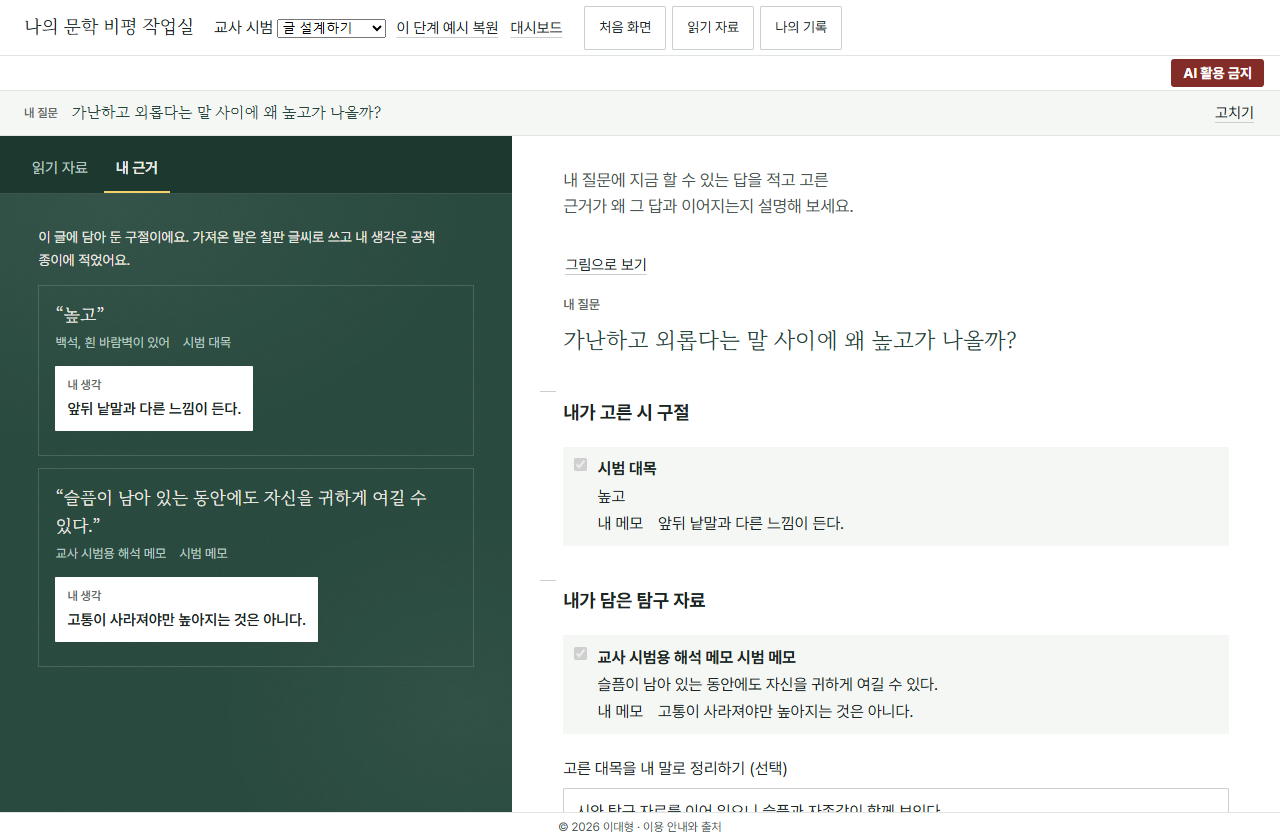
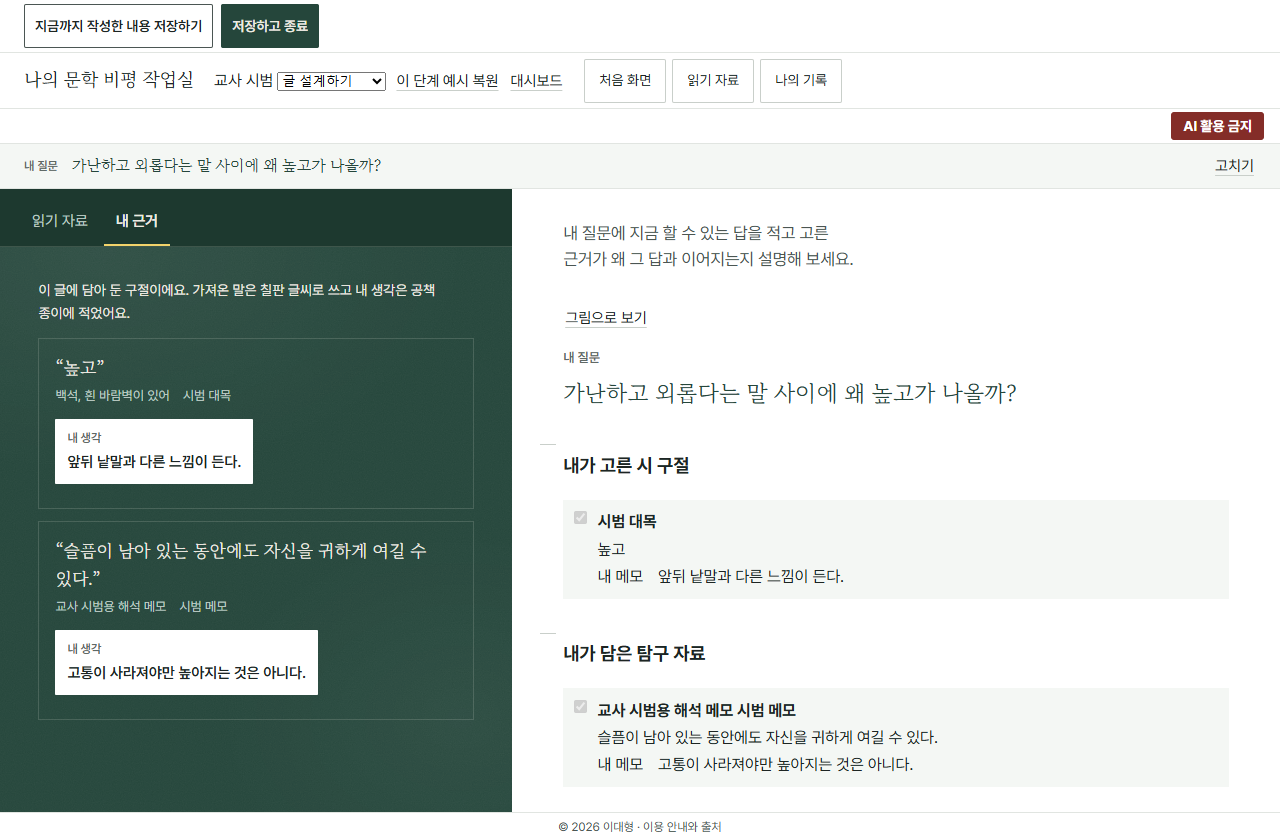
학생 저장과 종료를 교사 시범 및 안내 화면에 반영

diff --git a/index.html b/index.html
@@ -1,9 +1,9 @@
 <!doctype html>
 <html lang="ko"><head><meta charset="utf-8"><meta name="viewport" content="width=device-width,initial-scale=1"><meta name="description" content="백석의 시를 읽고 친구에게 추천하는 비평문 쓰기. 학교별 템플릿과 교사용 설치 안내."><title>나의 문학 비평 작업실 · 교사용 배포판</title><link href="./style.css" rel="stylesheet"></head>
 <body><header><a href="#top">나의 문학 비평 작업실</a><nav aria-label="페이지 메뉴"><a href="#why">제작 배경</a><a href="#screens">화면 체험</a><a href="#lesson">수업 흐름</a><a href="#records">작성 기록</a><a href="#install">학교 설치</a><a href="#faq">자주 묻는 질문</a></nav></header>
-<main id="top"><section class="hero"><div><p class="tag">교사용 배포판</p><h1>나의 문학<br>비평 작업실</h1><p class="lead">시가 낯선 친구에게 백석의 「흰 바람벽이 있어」를 권한다면, 어떤 대목을 함께 읽고 싶나요?</p><a class="primary" href="#install">우리 학교에 설치하기 ↓</a> <a class="text" href="#screens">학생 화면 둘러보기 ↓</a></div><figure><a href="./model-plan.png" aria-label="교사 시범 편집기 화면 크게 보기"><img src="./model-plan.png" width="1240" height="820" alt="글 설계하기 화면에서 ‘높고’에 관한 내 답과 앞서 고른 근거를 한눈에 살펴보는 교사 시범"></a><figcaption>교사 시범 화면 · 글 설계하기</figcaption></figure></section>
-<section id="why"><p class="tag">제작 배경</p><h2>‘높고’에서 멈춘 순간을<br>비평문의 첫 문장까지</h2><div class="columns"><p>“가난하고 외로운데 왜 높다고 했을까?” 시를 읽다 이런 물음이 생겨도, 막상 비평문을 쓰려면 무엇부터 말해야 할지 막막합니다. 작업실은 학생이 처음 품은 질문을 글 끝까지 가져갈 수 있도록 만들었습니다.</p><p>시구와 자료를 담을 때는 그 옆에 내 해석을 적고, 초고를 쓸 때는 그 근거를 곁에 펼쳐 둡니다. 교사는 완성된 글과 함께 학생이 무엇을 골랐고 어디에서 생각을 바꿨는지도 살펴볼 수 있습니다.</p></div><h3>수업에서 출발한 세 가지 설계</h3><ol class="flow"><li><h3>읽은 자리로 돌아가기</h3><p>쓰다가 생각이 막히면 시와 자료를 다시 펼칩니다. 앞서 골라 둔 대목이 자기 판단과 어울리는지 확인할 수 있습니다.</p></li><li><h3>판단 기준 먼저 나누기</h3><p>글을 쓰기 전에 같은 예시를 채점해 봅니다. 서로 다르게 읽은 문장을 짚으며 ‘근거가 분명하다’는 말의 뜻을 맞춰 갑니다.</p></li><li><h3>고쳐 쓴 이유 남기기</h3><p>AI에게 묻기 전에 어떤 독자의 반응이 필요한지 정합니다. 받은 조언 중 무엇을 받아들일지는 글쓴이가 결정합니다.</p></li></ol></section><section id="screens"><h2>학생과 교사의 화면을 둘러보세요</h2><p>보고 싶은 활동을 고르세요. 학교용 템플릿에 수업용 예시를 넣어 실행한 화면입니다. 이미지를 누르면 크게 볼 수 있습니다.</p><div class="picker" aria-label="미리 볼 활동"><a href="#shot-prep">평가기준 읽기</a><a href="#shot-case">사례 판단</a><a href="#shot-rule">AI 활용 규칙</a><a href="#shot-ask">질문 만들기</a><a href="#shot-find">근거 찾기</a><a href="#shot-plan">글 설계하기</a><a href="#shot-draft">초고 쓰기</a><a href="#shot-feedback">AI에게 묻기</a><a href="#shot-revise">고쳐쓰기</a><a href="#shot-teacher">교사 대시보드</a></div><article class="shot" id="shot-prep"><div><p class="tag">평가기준 읽기</p><h3>어떤 글을 쓰면 친구에게 시가 잘 전해질까요?</h3><p>학생은 세 평가요소를 자기 말로 풀어 쓴 뒤 선생님의 기준과 비교합니다. 예시 글의 수준을 판단하고, 친구와 판단이 갈린 대목을 이야기합니다.</p></div><figure><a href="screens/prep.png"><img loading="lazy" src="screens/prep.png" width="1280" height="840" alt="평가기준 읽기 실제 화면 크게 보기"></a></figure></article><article class="shot" id="shot-case"><div><p class="tag">사례 판단</p><h3>두 글의 점수를 정하려면 무엇을 더 알고 싶나요?</h3><p>가상 학생 두 명의 글과 작성 기록을 읽고 어느 쪽에 더 높은 점수를 줄지 의논합니다. 같은 기록을 보고도 판단이 달라질 수 있는 까닭을 묻습니다.</p></div><figure><a href="screens/case.png"><img loading="lazy" src="screens/case.png" width="1280" height="840" alt="사례 판단 실제 화면 크게 보기"></a></figure></article><article class="shot" id="shot-rule"><div><p class="tag">AI 활용 규칙</p><h3>내가 직접 할 일은 어디까지일까요?</h3><p>AI를 쓸 수 있는 시점과 부정행위에 관한 교사의 규칙을 읽고, 그 범위에서 자기 약속을 씁니다. 시구를 고르는 일, 질문을 만드는 일, 초고에 대해 조언을 구하는 일을 나누어 생각해 봅니다.</p></div><figure><a href="screens/rule.png"><img loading="lazy" src="screens/rule.png" width="1280" height="840" alt="AI 활용 규칙 실제 화면 크게 보기"></a></figure></article><article class="shot" id="shot-ask"><div><p class="tag">질문 만들기</p><h3>왜 ‘가난하고 외롭고’ 다음에 ‘높고’가 올까요?</h3><p>마음에 걸린 시어를 고르고 그 말이 궁금한 까닭을 적습니다. 시범 글을 띄워 ‘높고’를 가리고 읽었을 때와 다시 넣어 읽었을 때의 느낌을 나눠 보세요.</p></div><figure><a href="screens/ask.png"><img loading="lazy" src="screens/ask.png" width="1280" height="840" alt="질문 만들기 실제 화면 크게 보기"></a></figure></article><article class="shot" id="shot-find"><div><p class="tag">근거 찾기</p><h3>내 질문을 들고 어떤 자료를 읽을까요?</h3><p>시에서 찾은 대목을 다른 작품이나 연구 자료와 함께 읽습니다. 글에 쓸 부분을 담고, 이 대목이 내 질문과 어떻게 이어지는지 기록합니다.</p></div><figure><a href="screens/find.png"><img loading="lazy" src="screens/find.png" width="1280" height="840" alt="근거 찾기 실제 화면 크게 보기"></a></figure></article><article class="shot" id="shot-plan"><div><p class="tag">글 설계하기</p><h3>어떤 대목이 내 해석을 뒷받침하나요?</h3><p>시와 자료에서 담아 둔 근거를 펼쳐 보고 내 답과 이어지는 것을 고릅니다. 다른 자료를 읽고 처음 생각이 달라졌다면, 달라진 까닭도 글의 한 갈래가 됩니다.</p></div><figure><a href="screens/plan.png"><img loading="lazy" src="screens/plan.png" width="1280" height="840" alt="글 설계하기 실제 화면 크게 보기"></a></figure></article><article class="shot" id="shot-draft"><div><p class="tag">초고 쓰기</p><h3>시가 낯선 친구에게 첫 문장을 어떻게 건넬까요?</h3><p>한쪽에 글 설계를 펼쳐 두고 다른 쪽에서 초고를 씁니다. 친구에게 들려주고 싶은 대목, 그 대목을 읽은 내 생각, 이 시를 권하고 싶은 이유를 연결합니다.</p></div><figure><a href="screens/draft.png"><img loading="lazy" src="screens/draft.png" width="1280" height="840" alt="초고 쓰기 실제 화면 크게 보기"></a></figure></article><article class="shot" id="shot-feedback"><div><p class="tag">AI에게 묻기</p><h3>친구가 내 글의 어디에서 멈출까요?</h3><p>초고를 스스로 평가한 뒤 AI에게 받고 싶은 피드백을 정합니다. 요청과 초고를 복사해 사용할 수 있어, 글쓴이가 어떤 조언을 구할지 먼저 결정합니다.</p></div><figure><a href="screens/feedback.png"><img loading="lazy" src="screens/feedback.png" width="1280" height="840" alt="AI에게 묻기 실제 화면 크게 보기"></a></figure></article><article class="shot" id="shot-revise"><div><p class="tag">고쳐쓰기</p><h3>어느 문장을 왜 바꿨나요?</h3><p>독자의 질문을 참고해 문장을 고치고 수정한 이유를 남깁니다. 마지막에는 초고에 사용한 평가기준을 다시 펼쳐 자기 글을 살핍니다.</p></div><figure><a href="screens/revise.png"><img loading="lazy" src="screens/revise.png" width="1280" height="840" alt="고쳐쓰기 실제 화면 크게 보기"></a></figure></article><article class="shot" id="shot-teacher"><div><p class="tag">교사 대시보드</p><h3>오늘 누구와 어떤 이야기를 나눌까요?</h3><p>학급 현황에서 학생의 작업 단계를 살피고 개별 글을 열어 봅니다. ‘학생 화면으로 시범 쓰기’를 누르면 교사용 예시로 수업 장면을 직접 보여 줄 수 있습니다.</p></div><figure><a href="screens/teacher.png"><img loading="lazy" src="screens/teacher.png" width="1280" height="840" alt="교사 대시보드 실제 화면 크게 보기"></a></figure></article></section><section id="lesson"><h2>학생은 이렇게 씁니다</h2><ol class="flow"><li><h3>평가기준 함께 읽기</h3><p>세 평가요소의 뜻을 적고 예시 글에 수준을 매깁니다. 두 가상 학생의 작성 기록을 보고 자신의 AI 활용 규칙도 정합니다.</p></li><li><h3>시어에서 근거로</h3><p>마음에 남은 시어로 질문을 만들고 시와 탐구 자료에서 근거를 모읍니다. 글 설계에서 앞서 고른 대목과 메모를 다시 펼쳐 자기 답을 씁니다.</p></li><li><h3>초고에서 고쳐쓰기로</h3><p>초고를 자기평가하고 AI에게 물을 내용을 다듬습니다. 버튼을 누르면 요청과 초고가 함께 복사됩니다. 피드백을 참고해 자기 말로 고친 뒤 다시 평가하고 제출합니다.</p></li></ol>
-<h2>교사는 이렇게 보여 줍니다</h2><p>교사 대시보드에서 시범 글을 열고 오늘 보여 줄 단계를 고르세요. ‘높고’를 읽고 쓴 예시가 미리 들어 있습니다. 학생들과 다른 해석을 의논하며 직접 수정하거나, 그 단계만 기본 예시로 되돌릴 수 있습니다.</p><p>교사 시범 글은 학생 통계와 분리됩니다. 수업 중 대시보드에서 보이는 작성 시간, 화면 이탈, 복사·붙여넣기 기록은 학생이 어떤 과정을 거쳤는지 대화할 때 참고하세요.</p></section>
+<main id="top"><section class="hero"><div><p class="tag">교사용 배포판</p><h1>나의 문학<br>비평 작업실</h1><p class="lead">시가 낯선 친구에게 백석의 「흰 바람벽이 있어」를 권한다면, 어떤 대목을 함께 읽고 싶나요?</p><a class="primary" href="#install">우리 학교에 설치하기 ↓</a> <a class="text" href="#screens">학생 화면 둘러보기 ↓</a></div><figure><a href="./model-plan.png" aria-label="교사 시범 편집기 화면 크게 보기"><img src="./model-plan.png" width="1280" height="840" alt="글 설계하기 화면에서 ‘높고’에 관한 내 답과 앞서 고른 근거를 한눈에 살펴보는 교사 시범"></a><figcaption>교사 시범 화면 · 글 설계하기</figcaption></figure></section>
+<section id="why"><p class="tag">제작 배경</p><h2>‘높고’에서 멈춘 순간을<br>비평문의 첫 문장까지</h2><div class="columns"><p>“가난하고 외로운데 왜 높다고 했을까?” 시를 읽다 이런 물음이 생겨도, 막상 비평문을 쓰려면 무엇부터 말해야 할지 막막합니다. 작업실은 학생이 처음 품은 질문을 글 끝까지 가져갈 수 있도록 만들었습니다.</p><p>시구와 자료를 담을 때는 그 옆에 내 해석을 적고, 초고를 쓸 때는 그 근거를 곁에 펼쳐 둡니다. 교사는 완성된 글과 함께 학생이 무엇을 골랐고 어디에서 생각을 바꿨는지도 살펴볼 수 있습니다.</p></div><h3>수업에서 출발한 세 가지 설계</h3><ol class="flow"><li><h3>읽은 자리로 돌아가기</h3><p>쓰다가 생각이 막히면 시와 자료를 다시 펼칩니다. 앞서 골라 둔 대목이 자기 판단과 어울리는지 확인할 수 있습니다.</p></li><li><h3>판단 기준 먼저 나누기</h3><p>글을 쓰기 전에 같은 예시를 채점해 봅니다. 서로 다르게 읽은 문장을 짚으며 ‘근거가 분명하다’는 말의 뜻을 맞춰 갑니다.</p></li><li><h3>고쳐 쓴 이유 남기기</h3><p>AI에게 묻기 전에 어떤 독자의 반응이 필요한지 정합니다. 받은 조언 중 무엇을 받아들일지는 글쓴이가 결정합니다.</p></li></ol></section><section id="screens"><h2>학생과 교사의 화면을 둘러보세요</h2><p>보고 싶은 활동을 고르세요. 학교용 템플릿에 수업용 예시를 넣어 실행한 화면입니다. 이미지를 누르면 크게 볼 수 있습니다.</p><div class="picker" aria-label="미리 볼 활동"><a href="#shot-prep">평가기준 읽기</a><a href="#shot-case">사례 판단</a><a href="#shot-rule">AI 활용 규칙</a><a href="#shot-ask">질문 만들기</a><a href="#shot-find">근거 찾기</a><a href="#shot-plan">글 설계하기</a><a href="#shot-draft">초고 쓰기</a><a href="#shot-feedback">AI에게 묻기</a><a href="#shot-revise">고쳐쓰기</a><a href="#shot-teacher">교사 대시보드</a></div><article class="shot" id="shot-prep"><div><p class="tag">평가기준 읽기</p><h3>어떤 글을 쓰면 친구에게 시가 잘 전해질까요?</h3><p>학생은 세 평가요소를 자기 말로 풀어 쓴 뒤 선생님의 기준과 비교합니다. 예시 글의 수준을 판단하고, 친구와 판단이 갈린 대목을 이야기합니다.</p></div><figure><a href="screens/prep.png"><img loading="lazy" src="screens/prep.png" width="1280" height="840" alt="평가기준 읽기 실제 화면 크게 보기"></a></figure></article><article class="shot" id="shot-case"><div><p class="tag">사례 판단</p><h3>두 글의 점수를 정하려면 무엇을 더 알고 싶나요?</h3><p>가상 학생 두 명의 글과 작성 기록을 읽고 어느 쪽에 더 높은 점수를 줄지 의논합니다. 같은 기록을 보고도 판단이 달라질 수 있는 까닭을 묻습니다.</p></div><figure><a href="screens/case.png"><img loading="lazy" src="screens/case.png" width="1280" height="840" alt="사례 판단 실제 화면 크게 보기"></a></figure></article><article class="shot" id="shot-rule"><div><p class="tag">AI 활용 규칙</p><h3>내가 직접 할 일은 어디까지일까요?</h3><p>AI를 쓸 수 있는 시점과 부정행위에 관한 교사의 규칙을 읽고, 그 범위에서 자기 약속을 씁니다. 시구를 고르는 일, 질문을 만드는 일, 초고에 대해 조언을 구하는 일을 나누어 생각해 봅니다.</p></div><figure><a href="screens/rule.png"><img loading="lazy" src="screens/rule.png" width="1280" height="840" alt="AI 활용 규칙 실제 화면 크게 보기"></a></figure></article><article class="shot" id="shot-ask"><div><p class="tag">질문 만들기</p><h3>왜 ‘가난하고 외롭고’ 다음에 ‘높고’가 올까요?</h3><p>마음에 걸린 시어를 고르고 그 말이 궁금한 까닭을 적습니다. 시범 글을 띄워 ‘높고’를 가리고 읽었을 때와 다시 넣어 읽었을 때의 느낌을 나눠 보세요.</p></div><figure><a href="screens/ask.png"><img loading="lazy" src="screens/ask.png" width="1280" height="840" alt="질문 만들기 실제 화면 크게 보기"></a></figure></article><article class="shot" id="shot-find"><div><p class="tag">근거 찾기</p><h3>내 질문을 들고 어떤 자료를 읽을까요?</h3><p>「흰 바람벽이 있어」에서 한 구절을 담고, 다른 작품이나 논문 또는 『백석 평전』에서 한 대목을 담습니다. 질문 단계에서 고른 시구도 포함됩니다. 한 종류만 담고 글 설계하기를 누르면 더 담아야 할 근거를 알려 줍니다.</p></div><figure><a href="screens/find.png"><img loading="lazy" src="screens/find.png" width="1280" height="840" alt="근거 찾기 실제 화면 크게 보기"></a></figure></article><article class="shot" id="shot-plan"><div><p class="tag">글 설계하기</p><h3>어떤 대목이 내 해석을 뒷받침하나요?</h3><p>시와 자료에서 담아 둔 근거를 펼쳐 보고 내 답과 이어지는 것을 고릅니다. 다른 자료를 읽고 처음 생각이 달라졌다면, 달라진 까닭도 글의 한 갈래가 됩니다.</p></div><figure><a href="screens/plan.png"><img loading="lazy" src="screens/plan.png" width="1280" height="840" alt="글 설계하기 실제 화면 크게 보기"></a></figure></article><article class="shot" id="shot-draft"><div><p class="tag">초고 쓰기</p><h3>시가 낯선 친구에게 첫 문장을 어떻게 건넬까요?</h3><p>한쪽에 글 설계를 펼쳐 두고 다른 쪽에서 초고를 씁니다. 친구에게 들려주고 싶은 대목, 그 대목을 읽은 내 생각, 이 시를 권하고 싶은 이유를 연결합니다.</p></div><figure><a href="screens/draft.png"><img loading="lazy" src="screens/draft.png" width="1280" height="840" alt="초고 쓰기 실제 화면 크게 보기"></a></figure></article><article class="shot" id="shot-feedback"><div><p class="tag">AI에게 묻기</p><h3>친구가 내 글의 어디에서 멈출까요?</h3><p>초고를 스스로 평가한 뒤 AI에게 받고 싶은 피드백을 정합니다. 요청과 초고를 복사해 사용할 수 있어, 글쓴이가 어떤 조언을 구할지 먼저 결정합니다.</p></div><figure><a href="screens/feedback.png"><img loading="lazy" src="screens/feedback.png" width="1280" height="840" alt="AI에게 묻기 실제 화면 크게 보기"></a></figure></article><article class="shot" id="shot-revise"><div><p class="tag">고쳐쓰기</p><h3>어느 문장을 왜 바꿨나요?</h3><p>독자의 질문을 참고해 문장을 고치고 수정한 이유를 남깁니다. 마지막에는 초고에 사용한 평가기준을 다시 펼쳐 자기 글을 살핍니다.</p></div><figure><a href="screens/revise.png"><img loading="lazy" src="screens/revise.png" width="1280" height="840" alt="고쳐쓰기 실제 화면 크게 보기"></a></figure></article><article class="shot" id="shot-teacher"><div><p class="tag">교사 대시보드</p><h3>오늘 누구와 어떤 이야기를 나눌까요?</h3><p>학급 현황에서 학생의 작업 단계를 살피고 개별 글을 열어 봅니다. ‘학생 화면으로 시범 쓰기’를 누르면 교사용 예시로 수업 장면을 직접 보여 줄 수 있습니다.</p></div><figure><a href="screens/teacher.png"><img loading="lazy" src="screens/teacher.png" width="1280" height="840" alt="교사 대시보드 실제 화면 크게 보기"></a></figure></article></section><section id="lesson"><h2>학생은 이렇게 씁니다</h2><ol class="flow"><li><h3>평가기준 함께 읽기</h3><p>세 평가요소의 뜻을 적고 예시 글에 수준을 매깁니다. 두 가상 학생의 작성 기록을 보고 자신의 AI 활용 규칙도 정합니다.</p></li><li><h3>시어에서 근거로</h3><p>마음에 남은 시어로 질문을 만들고 시와 탐구 자료에서 근거를 모읍니다. 글 설계에서 앞서 고른 대목과 메모를 다시 펼쳐 자기 답을 씁니다.</p></li><li><h3>초고에서 고쳐쓰기로</h3><p>초고를 자기평가하고 AI에게 물을 내용을 다듬습니다. 버튼을 누르면 요청과 초고가 함께 복사됩니다. 피드백을 참고해 자기 말로 고친 뒤 다시 평가하고 제출합니다.</p></li></ol>
+<h2>교사는 이렇게 보여 줍니다</h2><p>교사 대시보드에서 시범 글을 열고 오늘 보여 줄 단계를 고르세요. ‘높고’를 읽고 쓴 예시가 미리 들어 있습니다. 학생들과 다른 해석을 의논하며 직접 수정하거나, 그 단계만 기본 예시로 되돌릴 수 있습니다.</p><p>시범 중 상단의 ‘지금까지 작성한 내용 저장하기’를 누르면 현재 단계에서 계속 쓸 수 있습니다. ‘저장하고 종료’를 누르면 시범 글을 저장한 뒤 교사 대시보드로 돌아옵니다. 시범 글과 학급 학생 기록은 따로 보관합니다. 수업 중 대시보드에서 보이는 작성 시간, 화면 이탈, 복사·붙여넣기 기록은 학생이 어떤 과정을 거쳤는지 대화할 때 참고하세요.</p></section>
 <section id="ai-policy"><p class="tag">수업의 AI 사용 기준</p><h2>초고는 스스로 쓰고, AI에게는 독자의 의견을 묻습니다</h2><p><strong>AI는 초고를 직접 쓰고 자기평가를 마친 뒤, ‘AI에게 묻기’에서만 사용할 수 있습니다.</strong> 내 글을 읽은 독자가 어느 대목에서 설명을 더 듣고 싶은지 물어보세요. 질문 만들기, 근거 찾기, 글 설계, 초고 쓰기, 자기평가와 고쳐쓰기는 모두 자기 힘으로 합니다. AI에게 답을 쓰거나 문장을 고쳐 달라고 요청할 수 없습니다.</p><p>선생님은 잦은 화면 이탈, 붙여넣기, 짧은 시간에 글자 수가 급격히 늘어난 구간을 살펴봅니다. 허용된 피드백 활동과 여러분의 설명을 함께 확인합니다. <strong>AI에게 과제를 맡긴 것으로 확인되면 부정행위로 보아 최하점을 받을 수 있습니다.</strong></p><p>점수보다 중요한 것은 여러분의 생각하는 힘입니다. AI가 대신 읽고 쓰면 스스로 질문하고 판단하는 힘을 기를 기회를 놓칩니다. AI의 조언을 잘 쓰려면 먼저 자기 힘으로 읽고, 쓰고, 고쳐 보는 실력을 길러야 합니다.</p><p>학생은 교사의 규칙을 읽고 그 안에서 자신이 지킬 약속을 씁니다. 작업 화면 오른쪽 위에 ‘AI 활용 금지’가 표시되고, 초고와 고쳐쓰기 사이의 ‘AI에게 묻기’에서만 ‘AI 활용 가능 · 초고 피드백만’으로 바뀝니다.</p></section>
 <section id="records"><p class="tag">교사 대시보드</p><h2>학급 현황에서 한 학생의 작성 과정까지</h2><dl><dt>지금 어느 단계에 있나요?</dt><dd>학급별로 접속 중인 학생, 화면이 숨겨진 학생, 초고 작성 중인 학생과 최종 제출 현황을 살핍니다. 학생별 행에는 복사·붙여넣기 횟수와 함께 확인할 작성 구간이 표시됩니다.</dd><dt>글이 언제, 얼마나 바뀌었나요?</dt><dd>학생 상세 화면에서 글자 수 변화 그래프를 봅니다. 확인할 구간에는 전후 글자 수와 기록된 붙여넣기 글자 수가 나옵니다. 복사·붙여넣기, 앱 버튼으로 넣기, 화면 숨김과 학습 종료 횟수를 구분해 볼 수 있습니다.</dd><dt>기록을 수업에서 어떻게 읽나요?</dt><dd>화면 숨김은 작업실 탭이 보이지 않게 된 기록입니다. 방문한 사이트나 클립보드 내용은 수집하지 않습니다. 해당 시점의 질문·근거·초고와 학생이 남긴 설명을 함께 보고 “이때 어느 대목을 고쳤니?”라고 물어보세요. 확인 뒤에는 ‘함께 봤어요’로 표시할 수 있습니다.</dd></dl><figure><a href="screens/record.png"><img loading="lazy" src="screens/record.png" alt="가상 학생의 작성 과정에서 복사·붙여넣기·화면 숨김 횟수와 글자 수 변화 구간을 확인하는 교사 화면"></a><figcaption>학생 상세 · 수업용 가상 학생의 작성 기록</figcaption></figure></section><section id="settings"><h2>교사가 준비하고 조정하는 것</h2><dl><dt>읽을 작품과 자료</dt><dd>학교에서 사용할 시 본문과 논문 발췌를 시트에 등록합니다. 출처와 쪽수를 함께 적어 학생이 근거를 다시 찾을 수 있게 합니다.</dd><dt>학생 명단과 게시 시점</dt><dd>‘학생과 설정 관리’에서 학생을 추가하고 우리 반 글을 언제 열지 정합니다.</dd><dt>짝 피드백</dt><dd>같은 반 학생끼리 글을 읽을 짝을 정합니다. 교사는 초고를 읽고 학생이 다음 문장을 고쳐 쓸 때 생각해 볼 질문을 남길 수 있습니다.</dd></dl></section><section id="install"><h2>우리 학교에 설치하기</h2><p>교사와 학생이 같은 도메인의 Google Workspace 학교 계정을 사용해야 합니다. 학교마다 교사가 소유하는 스프레드시트 사본에 학생 글과 작성 기록이 쌓입니다.</p><a class="primary" href="https://docs.google.com/spreadsheets/d/1bEXWQjVNwDYHrsEMhWZlIVlSxvoptkUUn3ojibRV0r8/copy">학교용 템플릿 사본 만들기 ↗</a>
 <ol class="steps"><li><strong>학교 교사 계정으로 사본을 만드세요.</strong> 사본에는 작업실 프로그램이 함께 들어 있습니다. 시트의 편집 권한은 운영 교사가 관리합니다.</li>
@@ -11,7 +11,7 @@
 <li><strong>수업 자료를 채우세요.</strong> Works 시트에서 주 작품(W-MAIN)의 bodyText에 행을 나눠 시 본문을 입력하세요. Excerpts에는 겹치지 않는 excerptId, Papers와 일치하는 paperId, 쪽수, excerptText를 넣습니다. 학교에서 사용할 권한이 있는 본문과 발췌문을 등록하세요.</li>
 <li><strong>학생이 접속할 웹앱 주소를 만드세요.</strong> 시트의 ‘확장 프로그램 → Apps Script → 배포 → 새 배포’에서 유형을 ‘웹 앱’으로 고릅니다. 실행 사용자는 배포하는 교사, 액세스 대상은 학교 도메인 사용자로 설정하고 배포합니다. 학교 정책으로 이 항목이 보이지 않으면 학교 Workspace 관리자에게 확인하세요.</li>
 <li><strong>교사와 학생 화면을 각각 확인하세요.</strong> 발급된 웹앱 주소를 교사 계정으로 열어 관리 화면에서 학생을 등록합니다. 등록된 학생 계정으로 시어 선택과 저장을 확인한 뒤, 학생들에게 웹앱 주소를 안내하세요.</li></ol></section>
-<section id="faq"><h2>자주 묻는 질문</h2><details><summary>수업 전에 학생처럼 써 보려면요?</summary><p>교사 계정에서 ‘학급 현황 → 학생 화면으로 시범 쓰기’를 누르세요. ‘교사 시범’ 목록에서 단계를 고르고 글을 수정해 보세요. ‘대시보드’를 누르면 학급 현황으로 돌아옵니다.</p></details><details><summary>설치했는데 시 본문이나 발췌가 비어 있어요.</summary><p>학교용 사본에는 작품과 논문을 등록할 자리가 마련돼 있습니다. 설치 안내의 3단계에 따라 수업에서 사용할 본문과 발췌를 채워 주세요.</p></details><details><summary>학생이 접속하지 못하면 어디를 확인하나요?</summary><p>학생이 학교 계정으로 접속했는지, 등록한 이메일이 일치하는지, 계정이 활성 상태인지 확인하세요. 학교 도메인 배포를 선택할 수 없다면 학교 Workspace 관리자에게 문의하세요.</p></details><details><summary>다른 학교 선생님과 어떻게 나누나요?</summary><p>이 페이지 주소를 공유하세요. 각 학교가 공식 템플릿을 복사하고 자신의 학교 계정으로 배포하면 학생 기록은 해당 학교 사본에 저장됩니다.</p></details></section><section><h2>개선 의견과 바뀐 점</h2><p>수업에서 막힌 단계나 학생에게 설명이 더 필요했던 화면이 있다면 제작자에게 알려 주세요. 화면 이름과 누른 버튼을 함께 적어 주시면 확인에 도움이 됩니다.</p><p><a href="https://blog.naver.com/edutech-lab">제작자 블로그</a> · <a href="https://www.instagram.com/aicreator.z/">인스타그램으로 의견 보내기</a></p><p><strong>2026. 11. 21.</strong> 교사 시범을 여는 동안 진행 상태를 표시하고, 배포 안내에서 활동별 화면을 골라 볼 수 있도록 했습니다.</p></section><section id="sources">
+<section id="faq"><h2>자주 묻는 질문</h2><details><summary>수업 전에 학생처럼 써 보려면요?</summary><p>교사 계정에서 ‘학급 현황 → 학생 화면으로 시범 쓰기’를 누르세요. ‘교사 시범’ 목록에서 단계를 고르고 글을 수정해 보세요. 상단에서 ‘저장하고 종료’를 누르면 저장한 시범 글을 나중에 다시 열 수 있습니다.</p></details><details><summary>설치했는데 시 본문이나 발췌가 비어 있어요.</summary><p>학교용 사본에는 작품과 논문을 등록할 자리가 마련돼 있습니다. 설치 안내의 3단계에 따라 수업에서 사용할 본문과 발췌를 채워 주세요.</p></details><details><summary>학생이 접속하지 못하면 어디를 확인하나요?</summary><p>학생이 학교 계정으로 접속했는지, 등록한 이메일이 일치하는지, 계정이 활성 상태인지 확인하세요. 학교 도메인 배포를 선택할 수 없다면 학교 Workspace 관리자에게 문의하세요.</p></details><details><summary>다른 학교 선생님과 어떻게 나누나요?</summary><p>이 페이지 주소를 공유하세요. 각 학교가 공식 템플릿을 복사하고 자신의 학교 계정으로 배포하면 학생 기록은 해당 학교 사본에 저장됩니다.</p></details></section><section><h2>개선 의견과 바뀐 점</h2><p>수업에서 막힌 단계나 학생에게 설명이 더 필요했던 화면이 있다면 제작자에게 알려 주세요. 화면 이름과 누른 버튼을 함께 적어 주시면 확인에 도움이 됩니다.</p><p><a href="https://blog.naver.com/edutech-lab">제작자 블로그</a> · <a href="https://www.instagram.com/aicreator.z/">인스타그램으로 의견 보내기</a></p><p><strong>2026. 11. 23.</strong> 시범 화면에서도 단계 중간에 저장하고 종료하는 방법과 원문·외부 자료의 근거 요건을 보여 줍니다.</p><p><strong>2026. 11. 21.</strong> 교사 시범을 여는 동안 진행 상태를 표시하고, 배포 안내에서 활동별 화면을 골라 볼 수 있도록 했습니다.</p></section><section id="sources">
 <!-- © 2026 이대형. 제작 코드의 무단 변형·재배포 금지. 외부 인용은 원출처에 귀속. -->
 <section id="creditsBody">
 <h2>만든 사람과 이용 안내</h2>
